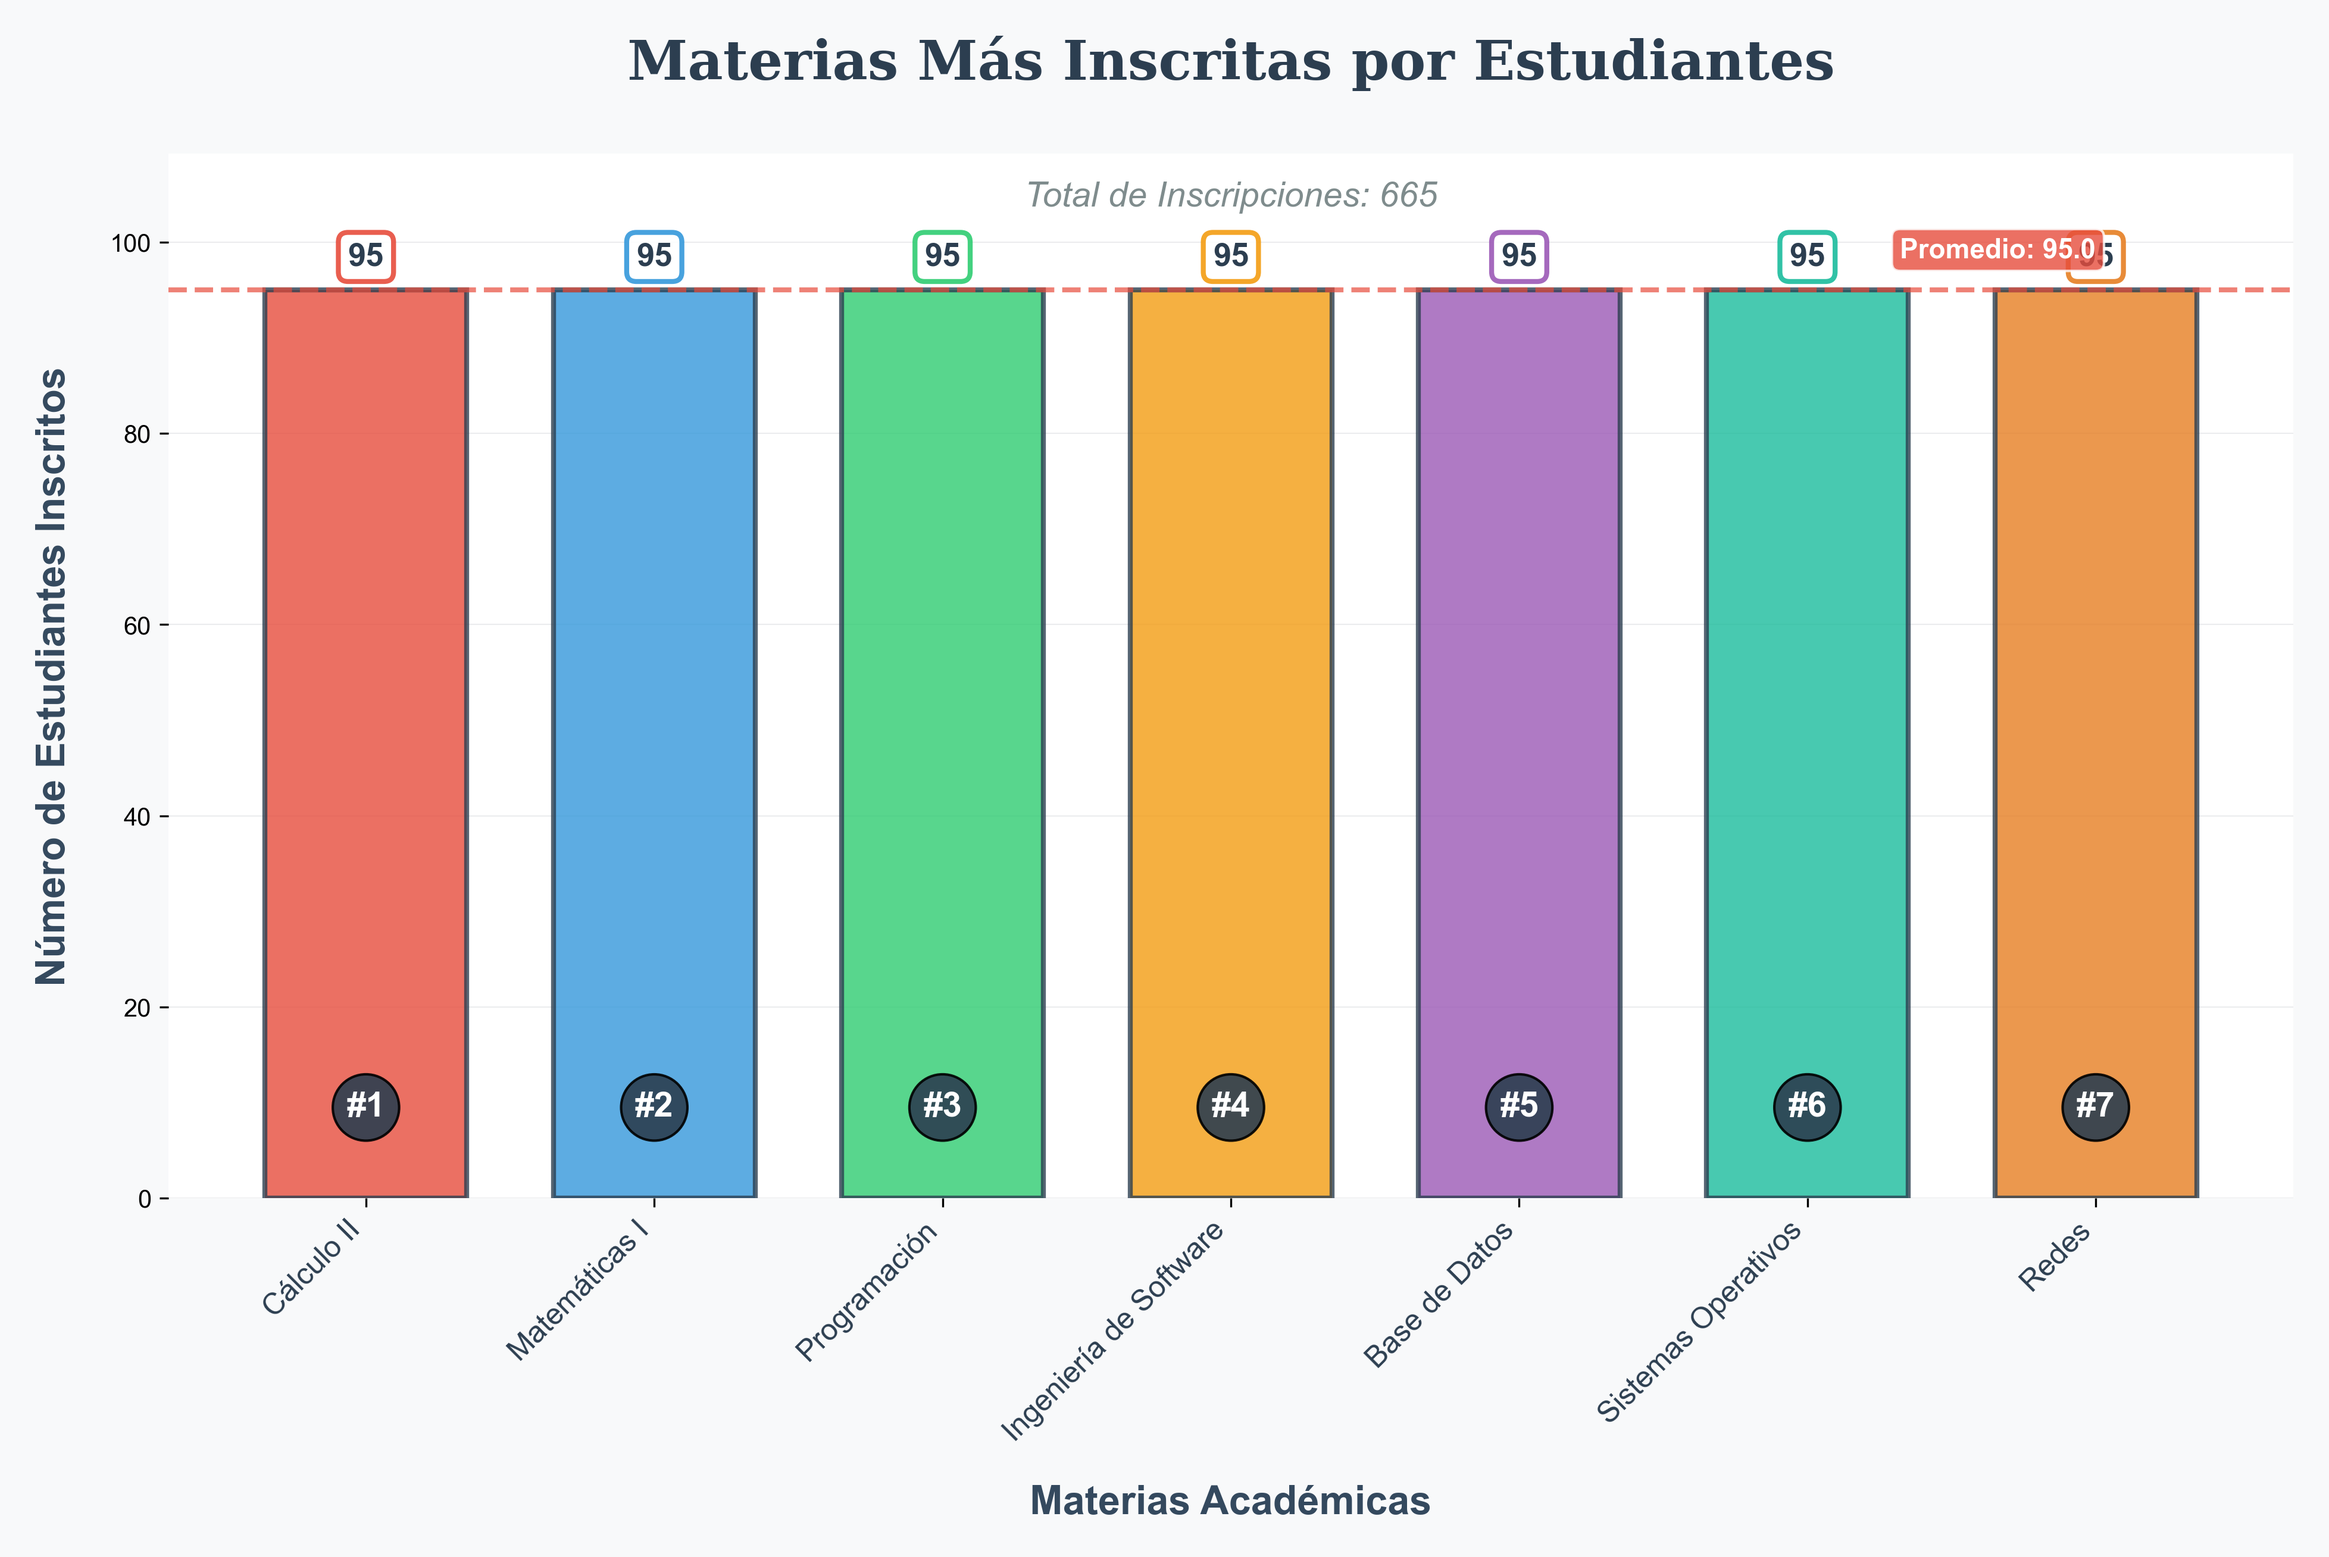
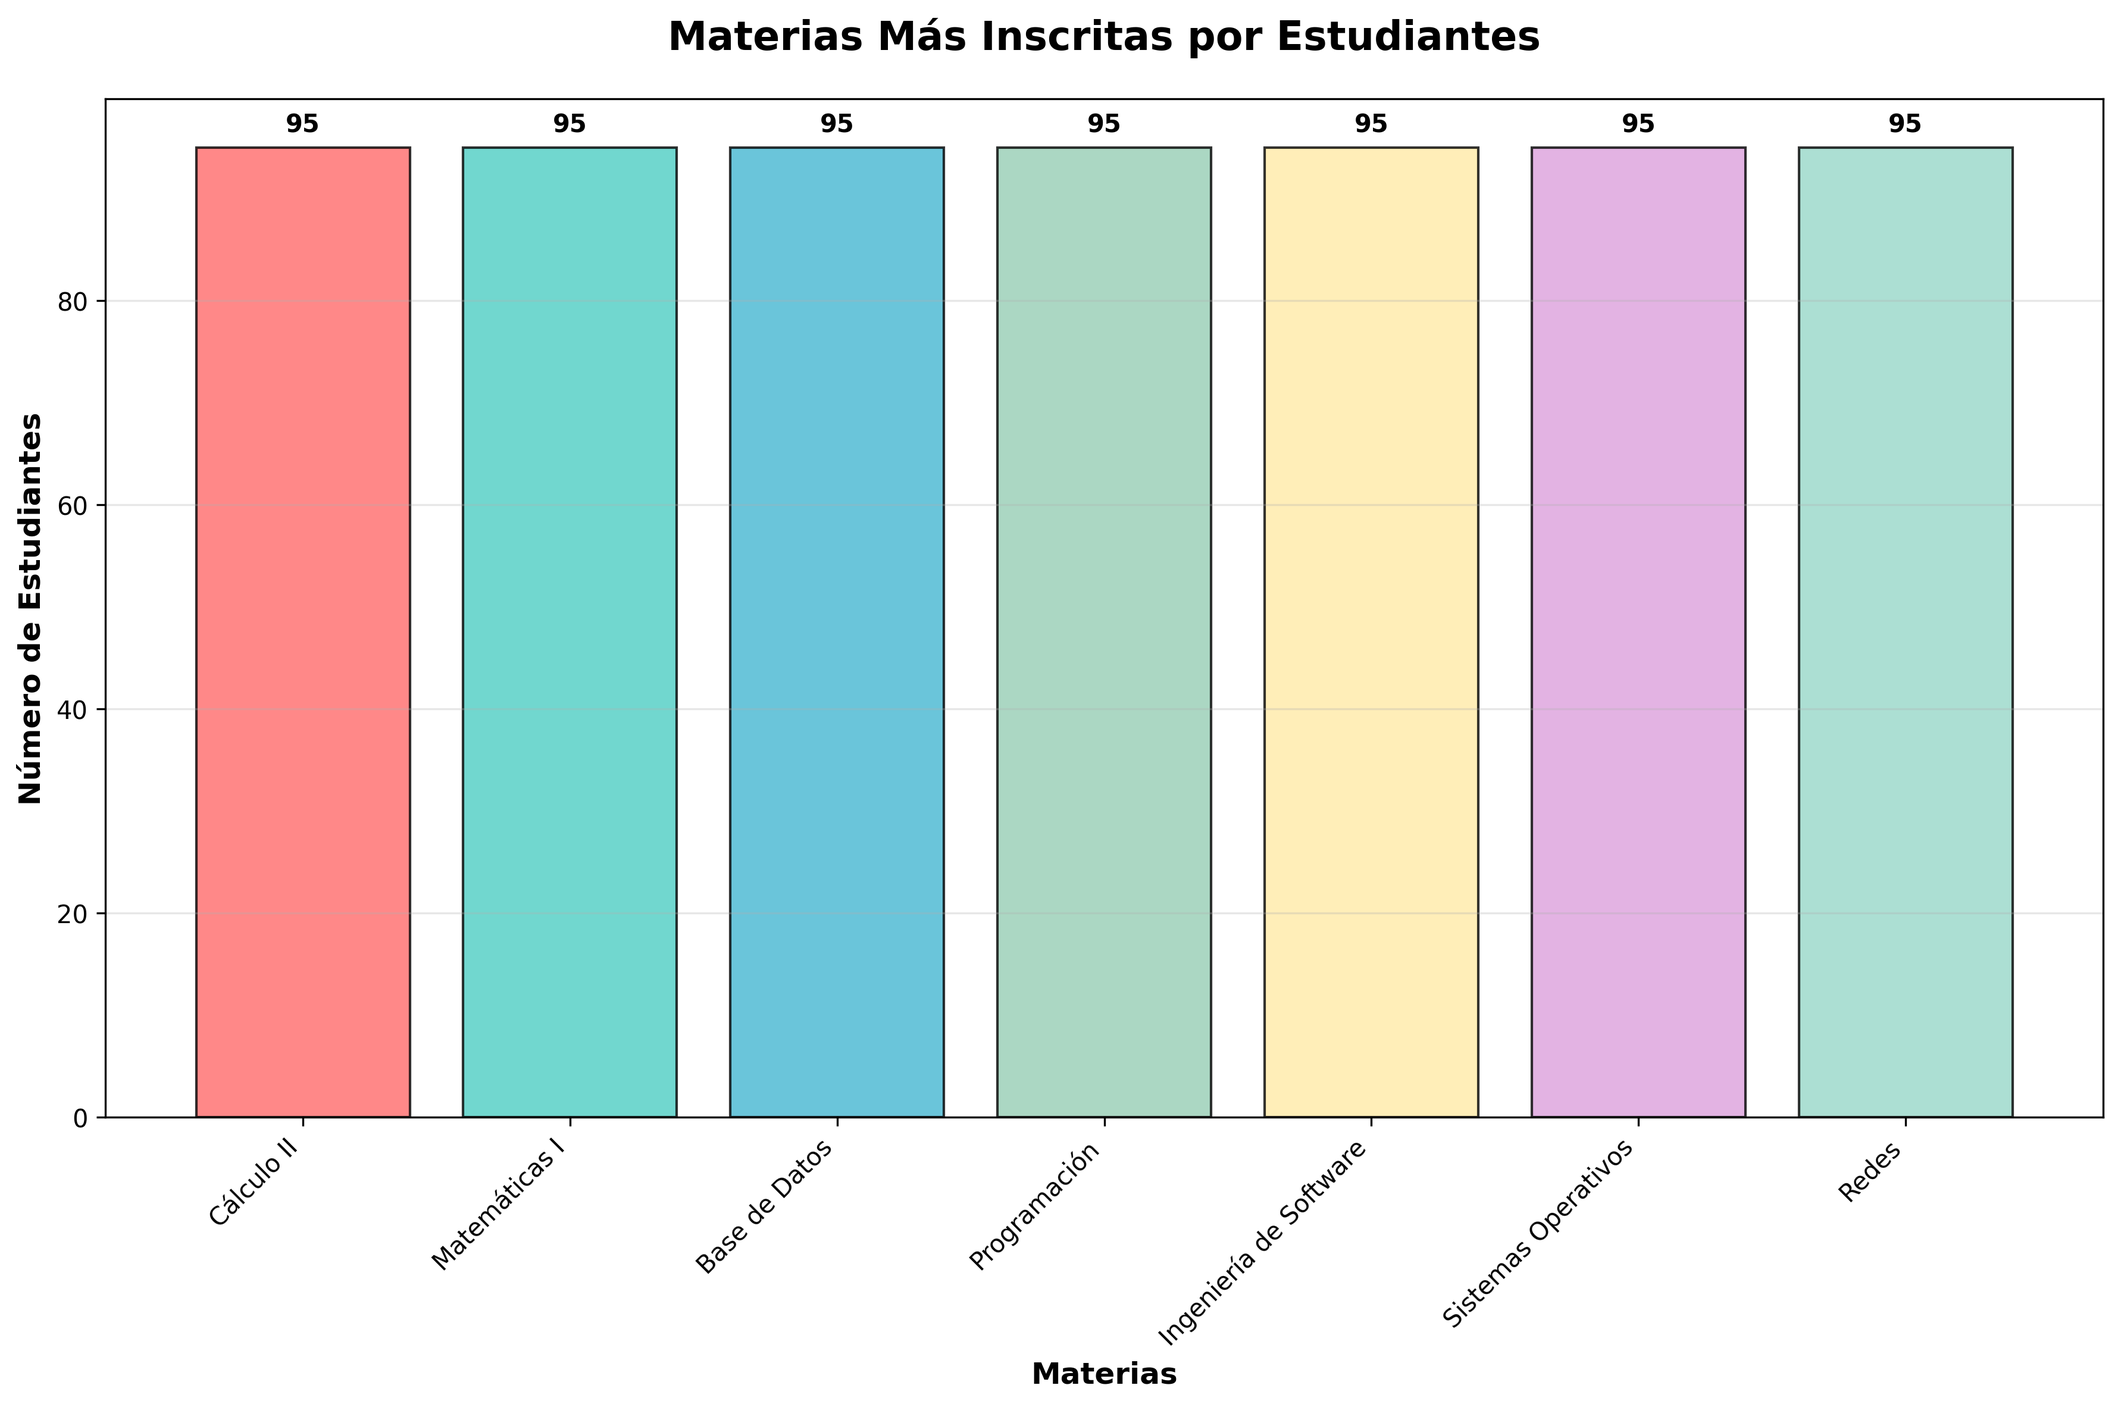
grafica python

diff --git a/admin/grafica_materias.py b/admin/grafica_materias.py
@@ -1,16 +1,8 @@
 import pymysql
 import matplotlib.pyplot as plt
 import numpy as np
-from collections import Counter
 
-# Configurar matplotlib para mejor visualización
-plt.style.use('default')
-plt.rcParams['font.family'] = ['Arial', 'sans-serif']
-plt.rcParams['axes.unicode_minus'] = False
-plt.rcParams['figure.facecolor'] = '#f8f9fa'
-plt.rcParams['axes.facecolor'] = 'white'
-
-# Configuración de la conexión a la base de datos
+# Configuración de la base de datos (igual que en dashboard.php)
 db_config = {
     'host': 'roundhouse.proxy.rlwy.net',
     'user': 'root',
@@ -21,192 +13,118 @@ db_config = {
     'cursorclass': pymysql.cursors.DictCursor
 }
 
-def obtener_datos_materias():
+def obtener_materias_inscritas():
     """
-    Obtiene los datos reales de materias desde la base de datos
-    Cuenta cuántos estudiantes han inscrito cada materia
+    Obtiene las materias más inscritas consultando la misma tabla que dashboard.php
     """
     try:
-        print("Conectando a la base de datos...")
         connection = pymysql.connect(**db_config)
+        print("Conectado a la base de datos...")
         
         with connection.cursor() as cursor:
-            # Verificar total de inscripciones
-            cursor.execute("SELECT COUNT(*) as total FROM Inscripciones")
-            total_registros = cursor.fetchone()['total']
-            print(f"Total de inscripciones: {total_registros}")
+            # Consultar todas las inscripciones (igual que dashboard.php)
+            sql = """
+            SELECT Materia1, Materia2, Materia3, Materia4, Materia5, Materia6, Materia7
+            FROM Inscripciones
+            """
+            cursor.execute(sql)
+            inscripciones = cursor.fetchall()
             
-            if total_registros == 0:
-                print("No hay datos en la tabla Inscripciones")
-                return []
+            print(f"Total de inscripciones encontradas: {len(inscripciones)}")
             
-            # Consulta simplificada y más eficiente
-            materias_count = {}
+            # Contar cada materia
+            contador_materias = {}
             
-            # Contar cada materia en cada columna
-            for i in range(1, 8):
-                sql = f"""
-                SELECT Materia{i} as materia, COUNT(*) as cantidad
-                FROM Inscripciones 
-                WHERE Materia{i} IS NOT NULL 
-                  AND Materia{i} != '' 
-                  AND Materia{i} != 'NULL'
-                  AND TRIM(Materia{i}) != ''
-                GROUP BY Materia{i}
-                """
-                
-                cursor.execute(sql)
-                resultados = cursor.fetchall()
-                
-                for row in resultados:
-                    materia = row['materia'].strip()
-                    cantidad = row['cantidad']
-                    
-                    if materia in materias_count:
-                        materias_count[materia] += cantidad
-                    else:
-                        materias_count[materia] = cantidad
+            for inscripcion in inscripciones:
+                # Revisar cada columna de materia
+                for i in range(1, 8):
+                    materia = inscripcion[f'Materia{i}']
+                    if materia and materia.strip() and materia != 'NULL':
+                        materia = materia.strip()
+                        if materia in contador_materias:
+                            contador_materias[materia] += 1
+                        else:
+                            contador_materias[materia] = 1
             
-            # Ordenar por cantidad (descendente) y tomar top 10
-            materias_ordenadas = sorted(materias_count.items(), key=lambda x: x[1], reverse=True)[:10]
+            # Ordenar de mayor a menor
+            materias_ordenadas = sorted(contador_materias.items(), key=lambda x: x[1], reverse=True)
             
-            print("\nMaterias encontradas:")
-            for materia, cantidad in materias_ordenadas:
-                print(f"  {materia}: {cantidad} estudiantes")
+            print("\nMaterias más inscritas:")
+            for i, (materia, cantidad) in enumerate(materias_ordenadas, 1):
+                print(f"{i}. {materia}: {cantidad} estudiantes")
             
             return materias_ordenadas
             
     except Exception as e:
         print(f"Error: {e}")
-        import traceback
-        traceback.print_exc()
         return []
     finally:
-        if 'connection' in locals() and connection.open:
+        if 'connection' in locals():
             connection.close()
 
-def generar_grafica(materias):
+def crear_grafica(materias_data):
     """
-    Genera una gráfica moderna y atractiva de barras verticales
+    Crea una gráfica de barras simple y bonita
     """
-    if not materias:
-        print("No hay datos para mostrar.")
+    if not materias_data:
+        print("No hay datos para la gráfica")
         return
     
-    print(f"Generando gráfica con {len(materias)} materias...")
+    # Preparar datos
+    materias = [item[0] for item in materias_data]
+    cantidades = [item[1] for item in materias_data]
     
-    # Separar nombres y cantidades
-    nombres = [m[0] for m in materias]
-    cantidades = [m[1] for m in materias]
+    # Crear la gráfica
+    plt.figure(figsize=(12, 8))
     
-    # Crear figura con diseño moderno
-    fig, ax = plt.subplots(figsize=(14, 9))
-    fig.patch.set_facecolor('#f8f9fa')
+    # Colores atractivos
+    colores = ['#FF6B6B', '#4ECDC4', '#45B7D1', '#96CEB4', '#FFEAA7', 
+               '#DDA0DD', '#98D8C8', '#F7DC6F', '#BB8FCE', '#85C1E9']
     
-    # Paleta de colores moderna y vibrante
-    colors = ['#e74c3c', '#3498db', '#2ecc71', '#f39c12', '#9b59b6', 
-              '#1abc9c', '#e67e22', '#34495e', '#f1c40f', '#95a5a6']
+    # Crear barras
+    barras = plt.bar(range(len(materias)), cantidades, 
+                     color=colores[:len(materias)], 
+                     alpha=0.8, 
+                     edgecolor='black', 
+                     linewidth=1)
     
-    # Crear barras con efectos modernos
-    x_pos = np.arange(len(nombres))
-    bars = ax.bar(x_pos, cantidades, 
-                  color=colors[:len(nombres)], 
-                  alpha=0.8,
-                  edgecolor='white',
-                  linewidth=3,
-                  width=0.7)
+    # Personalizar la gráfica
+    plt.title('Materias Más Inscritas por Estudiantes', fontsize=16, fontweight='bold', pad=20)
+    plt.xlabel('Materias', fontsize=12, fontweight='bold')
+    plt.ylabel('Número de Estudiantes', fontsize=12, fontweight='bold')
     
-    # Añadir efectos visuales simples
-    for i, bar in enumerate(bars):
-        # Mejorar el borde de cada barra
-        bar.set_edgecolor('#2c3e50')
-        bar.set_linewidth(2)
+    # Etiquetas del eje X
+    plt.xticks(range(len(materias)), materias, rotation=45, ha='right')
     
-    # Título principal elegante
-    ax.set_title('Materias Más Inscritas por Estudiantes', 
-                fontsize=22, fontweight='bold', pad=30, 
-                color='#2c3e50', family='serif')
+    # Agregar valores encima de las barras
+    for i, (barra, cantidad) in enumerate(zip(barras, cantidades)):
+        plt.text(barra.get_x() + barra.get_width()/2, barra.get_height() + 1,
+                str(cantidad), ha='center', va='bottom', fontweight='bold')
     
-    # Subtítulo informativo
-    total_inscripciones = sum(cantidades)
-    ax.text(0.5, 0.95, f'Total de Inscripciones: {total_inscripciones}',
-            transform=ax.transAxes, ha='center', fontsize=14,
-            style='italic', color='#7f8c8d')
-    
-    # Etiquetas de ejes con estilo
-    ax.set_xlabel('Materias Académicas', fontsize=16, fontweight='bold', 
-                  color='#34495e', labelpad=15)
-    ax.set_ylabel('Número de Estudiantes Inscritos', fontsize=16, fontweight='bold', 
-                  color='#34495e', labelpad=15)
-    
-    # Configurar etiquetas del eje X
-    ax.set_xticks(x_pos)
-    ax.set_xticklabels(nombres, rotation=45, ha='right', fontsize=12, 
-                       color='#2c3e50', fontweight='500')
-    
-    # Grid sutil y elegante
-    ax.grid(True, axis='y', alpha=0.3, linestyle='-', linewidth=0.5, color='#bdc3c7')
-    ax.set_axisbelow(True)
-    
-    # Valores en las barras con diseño mejorado
-    for i, (bar, cantidad) in enumerate(zip(bars, cantidades)):
-        height = bar.get_height()
-        
-        # Número de estudiantes arriba de la barra
-        ax.text(bar.get_x() + bar.get_width()/2., height + max(cantidades) * 0.02,
-                f'{int(cantidad)}',
-                ha='center', va='bottom', fontsize=13, fontweight='bold', 
-                color='#2c3e50',
-                bbox=dict(boxstyle='round,pad=0.3', facecolor='white', 
-                         edgecolor=colors[i], linewidth=2, alpha=0.9))
-        
-        # Ranking dentro de la barra
-        ax.text(bar.get_x() + bar.get_width()/2., height * 0.1,
-                f'#{i+1}',
-                ha='center', va='center', fontsize=14, fontweight='bold',
-                color='white', 
-                bbox=dict(boxstyle='circle,pad=0.4', facecolor='#2c3e50', alpha=0.9))
-    
-    # Personalizar bordes
-    for spine in ax.spines.values():
-        spine.set_visible(False)
-    
-    # Configurar límites del eje Y para mejor visualización
-    ax.set_ylim(0, max(cantidades) * 1.15)
-    
-    # Añadir información estadística
-    promedio = np.mean(cantidades)
-    ax.axhline(y=promedio, color='#e74c3c', linestyle='--', alpha=0.7, linewidth=2)
-    ax.text(len(nombres) - 1, promedio + max(cantidades) * 0.03, 
-            f'Promedio: {promedio:.1f}',
-            ha='right', va='bottom', fontsize=11, 
-            bbox=dict(boxstyle='round,pad=0.3', facecolor='#e74c3c', 
-                     alpha=0.8, edgecolor='white'),
-            color='white', fontweight='bold')
+    # Grid para mejor lectura
+    plt.grid(axis='y', alpha=0.3)
     
     # Ajustar layout
     plt.tight_layout()
-    plt.subplots_adjust(bottom=0.2, top=0.85, left=0.1, right=0.95)
     
-    # Guardar con alta calidad
-    plt.savefig('grafica_materias.png', dpi=300, bbox_inches='tight', 
-                facecolor='#f8f9fa', edgecolor='none', pad_inches=0.2)
-    print("Gráfica generada correctamente: grafica_materias.png")
+    # Guardar la gráfica
+    plt.savefig('grafica_materias.png', dpi=300, bbox_inches='tight')
+    print("Gráfica guardada como 'grafica_materias.png'")
     
-    # Liberar memoria
+    # Mostrar la gráfica (opcional)
+    # plt.show()
+    
     plt.close()
 
 if __name__ == "__main__":
-    print("Obteniendo datos de materias...")
-    datos_materias = obtener_datos_materias()
+    print("=== GENERANDO GRÁFICA DE MATERIAS ===")
     
-    if datos_materias:
-        print(f"Se encontraron {len(datos_materias)} materias con inscripciones.")
-        print("\nTop 15 materias más populares:")
-        for i, (materia, cantidad) in enumerate(datos_materias, 1):
-            print(f"{i}. {materia}: {cantidad} inscripciones")
-        
-        print("\nGenerando gráfica...")
-        generar_grafica(datos_materias)
+    # Obtener datos
+    materias_data = obtener_materias_inscritas()
+    
+    if materias_data:
+        # Crear gráfica
+        crear_grafica(materias_data)
+        print("¡Gráfica generada exitosamente!")
     else:
-        print("No se encontraron datos de materias.")
+        print("No se pudieron obtener los datos")

diff --git a/admin/descargar_grafica.php b/admin/descargar_grafica.php
@@ -19,7 +19,7 @@ if (!file_exists($archivo_grafica)) {
     // Verificar si se generó correctamente
     if ($return_var !== 0 || !file_exists($archivo_grafica)) {
         http_response_code(404);
-        echo "Error: No se pudo generar o encontrar la gráfica de materias.";
+        echo "Error: No se pudo generar la gráfica de materias.";
         exit();
     }
 }
